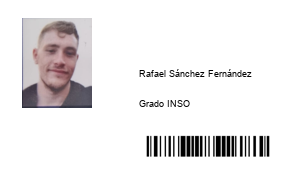
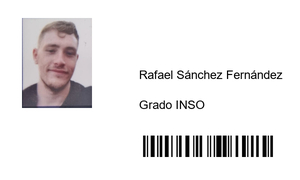
Intento de mejora de resolucion

Changed region(s): [[0.45, 0.75, 0.93, 0.8889], [0.45, 0.3889, 0.96, 0.4444], [0.45, 0.5556, 0.69, 0.6111]]

diff --git a/code/prototypes/card_generator/card.py b/code/prototypes/card_generator/card.py
@@ -5,58 +5,58 @@ import requests
 from io import BytesIO
 
 def cargar_imagen(foto_path):
-    """Carga una imagen desde una URL o una ruta local."""
+    """Carga una imagen desde una URL o una ruta local con mejor calidad."""
     if foto_path.startswith("http"):
         response = requests.get(foto_path)
         if response.status_code == 200:
-            return Image.open(BytesIO(response.content))
+            img = Image.open(BytesIO(response.content)).convert("RGBA")
         else:
             raise Exception("No se pudo descargar la imagen desde la URL.")
     else:
-        return Image.open(foto_path)
+        img = Image.open(foto_path).convert("RGBA")
+    
+    return img
 
 def generar_tarjeta(nombre, grado, dni, foto_path):
-    # Crear una imagen en blanco con las dimensiones de la tarjeta
-    tarjeta = Image.new("RGB", (300, 180), "white")
+    # Crear una imagen en blanco con mayor resolución (600x360)
+    tarjeta = Image.new("RGB", (600, 360), "white")
 
-    # Cargar y pegar la imagen de la foto del alumno (desde URL o local)
-    foto_alumno = cargar_imagen(foto_path).resize((70, 90))
-    tarjeta.paste(foto_alumno, (22, 18))
+    # Cargar y mejorar la imagen del alumno
+    foto_alumno = cargar_imagen(foto_path).resize((140, 180), Image.LANCZOS)  # 2x tamaño original
+    tarjeta.paste(foto_alumno, (44, 36))  # Duplicamos coordenadas (2x escala)
 
-    # Generar código de barras sin texto
+    # Generar código de barras con más resolución
     code128 = barcode.get("code128", dni, writer=ImageWriter())
-    barcode_path = "barcode"  # Sin extensión, porque python-barcode añade .png automáticamente
-    code128.save(barcode_path, {"module_width": 0.4, "module_height": 20, "add_text": False})
+    barcode_path = "barcode"
+    code128.save(barcode_path, {"module_width": 0.8, "module_height": 40, "add_text": False})  # 2x tamaño original
 
-    # Cargar el código de barras
-    barcode_img = Image.open(barcode_path + ".png")
-    
-    # Recortar la parte inferior (ajusta según el tamaño del texto generado)
+    # Cargar y recortar el código de barras
+    barcode_img = Image.open(barcode_path + ".png").convert("L")  # Escala de grises para calidad
     width, height = barcode_img.size
-    barcode_img = barcode_img.crop((0, 0, width, int(height * 0.75)))  # Elimina el 25% inferior
-    
-    # Redimensionar al tamaño deseado y pegar en la tarjeta
-    barcode_img = barcode_img.resize((138, 22))
-    tarjeta.paste(barcode_img, (139, 135))
+    barcode_img = barcode_img.crop((0, 0, width, int(height * 0.75)))  # Recortar parte inferior
 
-    # Dibujar texto (nombre y grado)
+    # Redimensionar y pegar código de barras
+    barcode_img = barcode_img.resize((276, 44), Image.LANCZOS)  # 2x tamaño original
+    tarjeta.paste(barcode_img, (278, 270))  # Duplicamos coordenadas (2x escala)
+
+    # Dibujar texto con mayor tamaño
     draw = ImageDraw.Draw(tarjeta)
-    font = ImageFont.truetype("arial.ttf", 9.1)  # Ajusta la fuente y tamaño si es necesario
+    font = ImageFont.truetype("arial.ttf", 12.1 * 2)  # 2x tamaño original
 
-    draw.text((139, 68), nombre, font=font, fill="black")
-    draw.text((139, 98), grado, font=font, fill="black")
+    draw.text((278, 136), nombre, font=font, fill="black")
+    draw.text((278, 196), grado, font=font, fill="black")
 
-    # Guardar la imagen final
-    tarjeta.save("tarjeta_generada.png")
-    print("Tarjeta generada correctamente.")
+    # Reducir a tamaño original (300x180) si es necesario
+    tarjeta = tarjeta.resize((300, 180), Image.LANCZOS)
 
-# Ejemplo de uso con URL y ruta local
+    # Guardar imagen final con alta calidad
+    tarjeta.save("tarjeta_generada.png", dpi=(300, 300))
+    print("Tarjeta generada con mejor resolución.")
+
+# Ejemplo de uso
 generar_tarjeta(
-    "Rafael Sánchez Fernández", 
-    "Grado INSO", 
-    "12345678A", 
-    "https://cdn.discordapp.com/attachments/1334909232117448785/1337048440760176690/Foto.png?ex=67a80125&is=67a6afa5&hm=77c5ae241cca3f7e79a8d1f9d79ba9e13d7876a4840bab3cbaf03d551b093d89&"
+    "Rafael Sánchez Fernández",
+    "Grado INSO",
+    "12345678A",
+    "https://cdn.discordapp.com/attachments/1334909232117448785/1337048440760176690/Foto.png?ex=67abf5a5&is=67aaa425&hm=4a4d96d953e2943a44473596219b7373f83f1113136a457ea3ca6873ef3e413a&"
 )
-
-# También funcionaría con una imagen local:
-# generar_tarjeta("Nombre", "Grado", "DNI", "foto_alumno.png")
